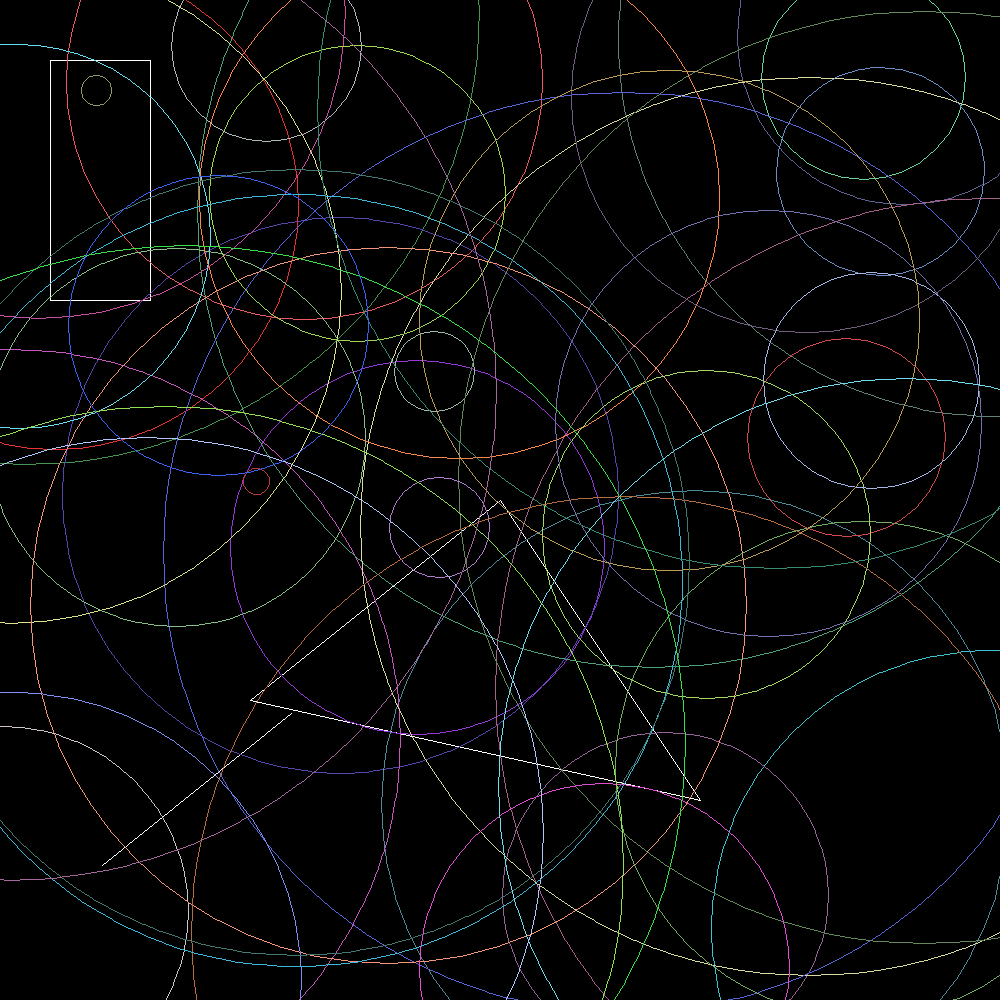
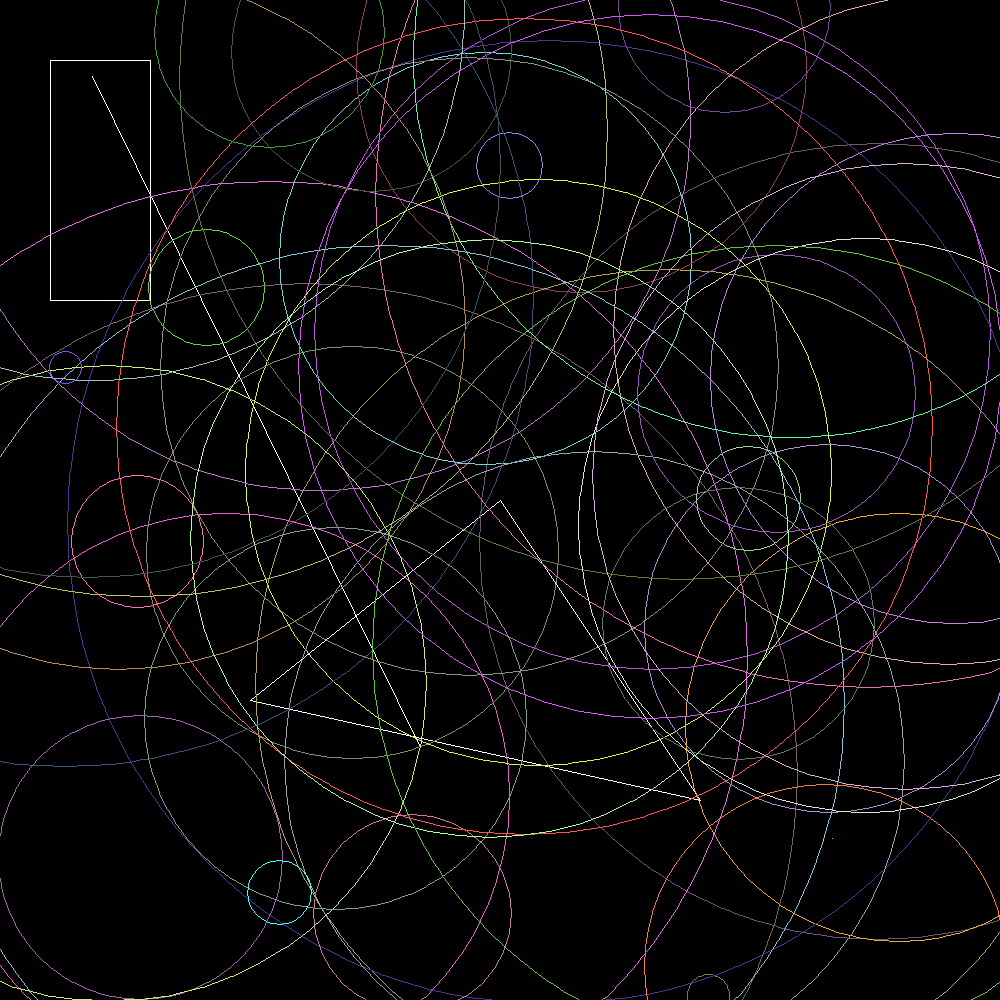
v0

diff --git a/Main.java b/Main.java
@@ -12,7 +12,7 @@ public class Main {
         Line singleLine = Line.random(image.getWidth(),image.getHeight());
         singleLine.draw(image);
 
-        Point singlePoint = Point.random(5000, 5000);
+        Point singlePoint = Point.random(image.getWidth(), image.getHeight());
         singlePoint.draw(image);
 
         for (int i = 0; i < 50; i++) {
